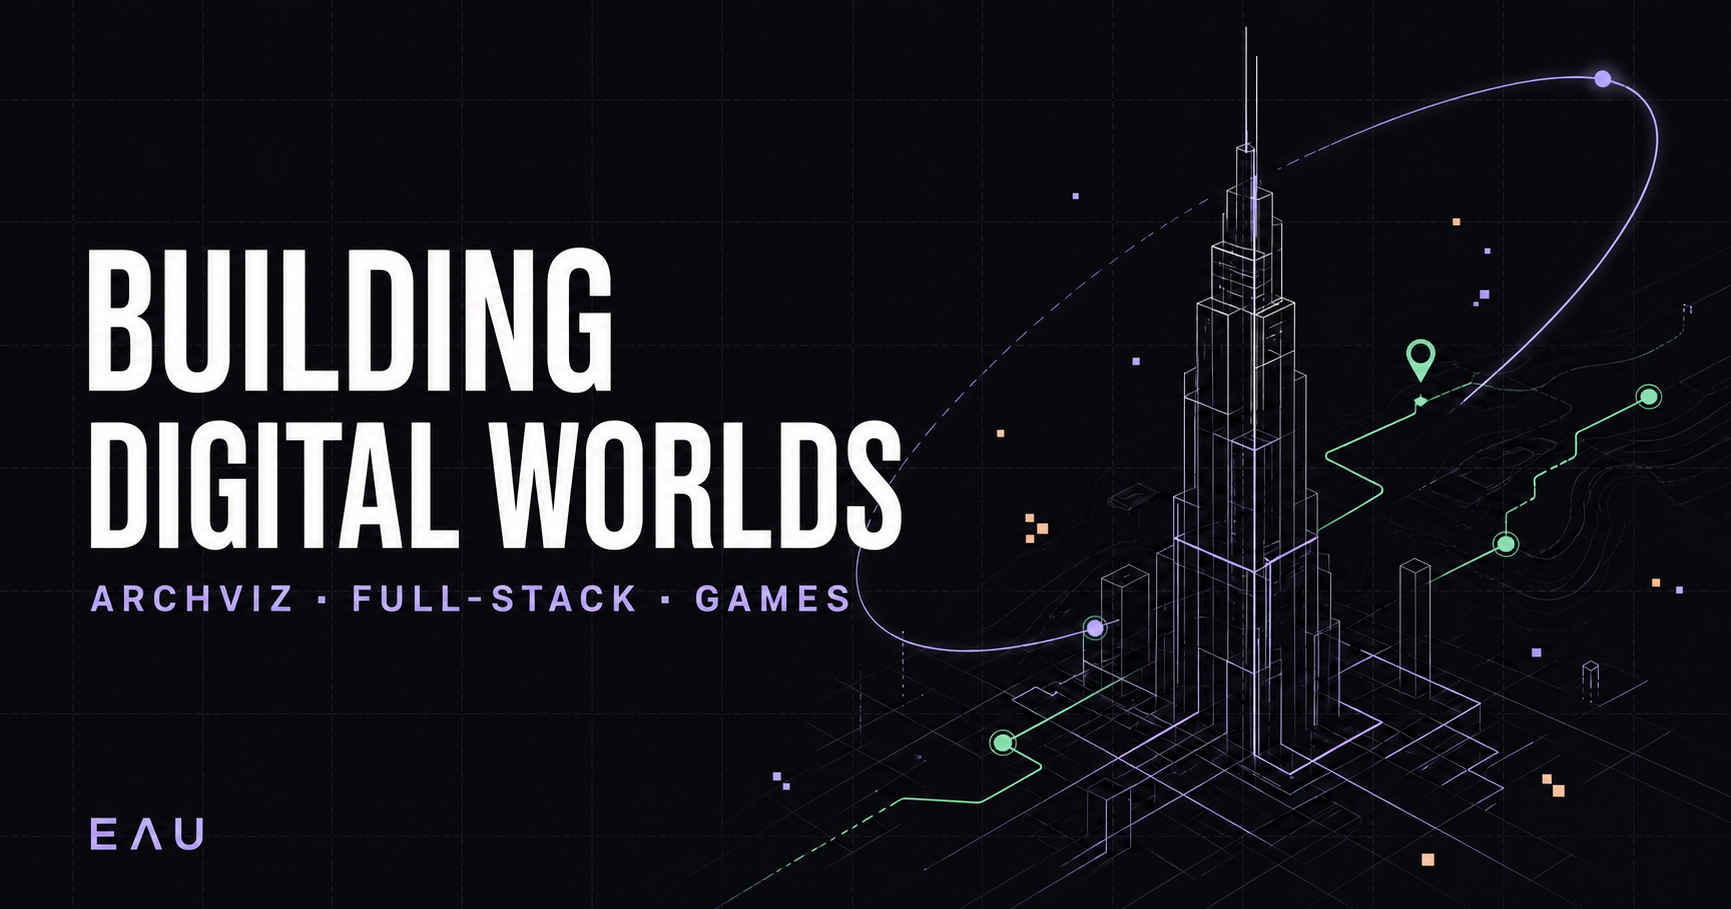
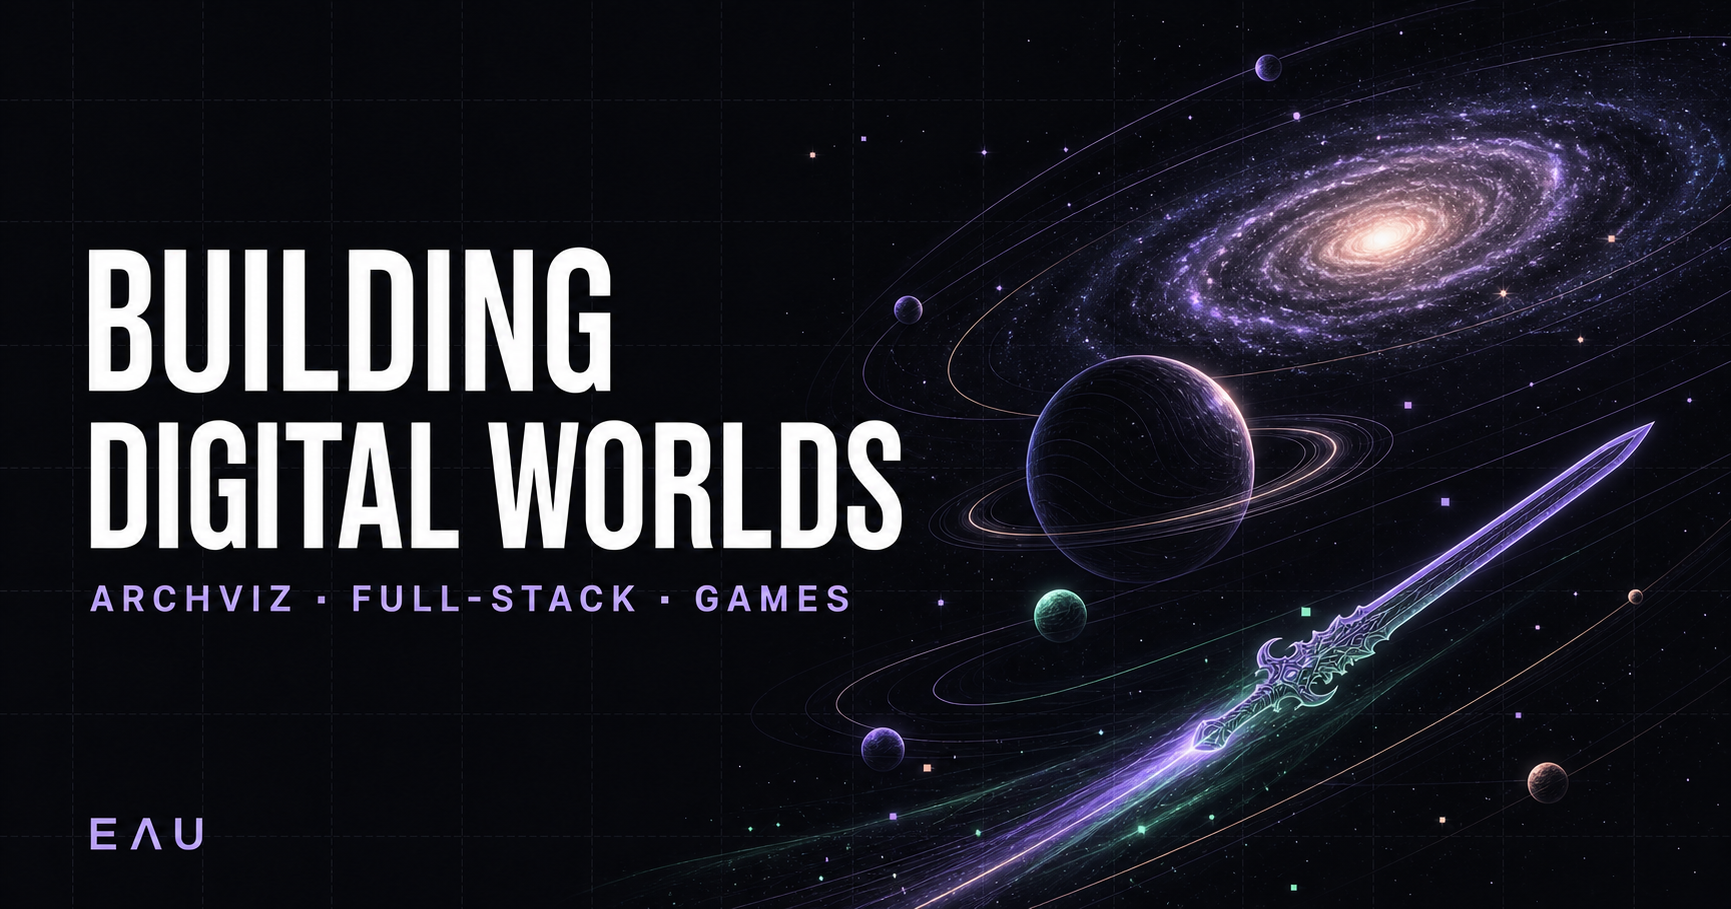
fix: replace identity buildings with EAU cosmos

diff --git a/app/globals.css b/app/globals.css
@@ -135,16 +135,87 @@ nav a:hover, .header-cta:hover { color: var(--ink); }
   border: 1px solid var(--line);
   border-radius: 28px;
   background:
-    linear-gradient(rgba(255,255,255,.025) 1px, transparent 1px),
-    linear-gradient(90deg,rgba(255,255,255,.025) 1px,transparent 1px),
-    radial-gradient(circle at 55% 44%, rgba(182,156,255,.18), transparent 42%),
-    #0c0e13;
-  background-size: 44px 44px, 44px 44px, auto, auto;
+    radial-gradient(ellipse at 62% 48%, rgba(182,156,255,.16), transparent 42%),
+    radial-gradient(circle at 18% 82%, rgba(142,227,192,.08), transparent 24%),
+    #070910;
   box-shadow: inset 0 0 90px rgba(0,0,0,.45);
 }
-.hero-visual::before { content: ""; position: absolute; inset: -40% -15%; border: 1px solid rgba(182,156,255,.12); border-radius: 50%; transform: rotate(-18deg); z-index: 1; pointer-events: none; }
-.hero-visual::after { content: ""; position: absolute; inset: 12% 9%; border: 1px solid rgba(142,227,192,.08); border-radius: 50%; transform: rotate(24deg); z-index: 1; pointer-events: none; }
+.hero-visual::before { content: ""; position: absolute; inset: 0; z-index: 4; pointer-events: none; box-shadow: inset 0 0 80px 24px rgba(5,6,12,.72); }
+.hero-visual::after { content: ""; position: absolute; inset: 0; z-index: 4; pointer-events: none; background: linear-gradient(135deg,rgba(255,255,255,.035),transparent 24%,transparent 74%,rgba(142,227,192,.025)); }
 .hero-visual-label { position: absolute; z-index: 5; top: 24px; left: 26px; right: 26px; display: flex; justify-content: space-between; color: rgba(255,255,255,.46); font: 500 9px/1 var(--font-geist-mono),monospace; letter-spacing: .14em; }
+
+.eau-cosmos { position: relative; width: 100%; height: 100%; overflow: hidden; isolation: isolate; background: radial-gradient(ellipse at 53% 50%,rgba(182,156,255,.1),transparent 45%); }
+.cosmos-nebula { position: absolute; z-index: 0; border-radius: 50%; filter: blur(30px); opacity: .68; }
+.cosmos-nebula-violet { width: 78%; height: 34%; left: 8%; top: 33%; background: linear-gradient(90deg,transparent,rgba(115,81,205,.26),rgba(255,255,255,.08),rgba(182,156,255,.25),transparent); transform: rotate(-17deg); animation: nebula-breathe 7s ease-in-out infinite alternate; }
+.cosmos-nebula-jade { width: 38%; height: 23%; right: -3%; bottom: 8%; background: radial-gradient(ellipse,rgba(72,198,157,.18),transparent 68%); animation: nebula-breathe 9s 1s ease-in-out infinite alternate-reverse; }
+.cosmos-starfield { position: absolute; inset: -12%; z-index: 1; background-repeat: repeat; transform-origin: 52% 48%; }
+.cosmos-stars-far {
+  opacity: .56;
+  background-image:
+    radial-gradient(circle at 7% 12%,rgba(255,255,255,.8) 0 1px,transparent 1.6px),
+    radial-gradient(circle at 19% 66%,rgba(182,156,255,.9) 0 1px,transparent 1.8px),
+    radial-gradient(circle at 31% 24%,rgba(255,255,255,.72) 0 1px,transparent 1.7px),
+    radial-gradient(circle at 43% 81%,rgba(142,227,192,.85) 0 1px,transparent 1.8px),
+    radial-gradient(circle at 58% 14%,rgba(255,255,255,.78) 0 1px,transparent 1.6px),
+    radial-gradient(circle at 72% 72%,rgba(182,156,255,.92) 0 1px,transparent 1.9px),
+    radial-gradient(circle at 86% 36%,rgba(255,184,147,.86) 0 1px,transparent 1.7px),
+    radial-gradient(circle at 94% 88%,rgba(255,255,255,.72) 0 1px,transparent 1.8px);
+  background-size: 173px 151px,211px 197px,233px 181px,257px 221px,283px 239px,307px 263px,331px 293px,359px 317px;
+  animation: star-drift 38s linear infinite;
+}
+.cosmos-stars-near {
+  opacity: .78;
+  background-image:
+    radial-gradient(circle at 11% 28%,#fff 0 1.4px,transparent 2px),
+    radial-gradient(circle at 37% 7%,#b69cff 0 1.5px,transparent 2.4px),
+    radial-gradient(circle at 54% 74%,#8ee3c0 0 1.4px,transparent 2.2px),
+    radial-gradient(circle at 79% 19%,#fff 0 1.3px,transparent 2px),
+    radial-gradient(circle at 91% 57%,#ffb893 0 1.4px,transparent 2.2px);
+  background-size: 367px 281px,419px 337px,461px 389px,503px 431px,557px 479px;
+  animation: star-drift 54s linear infinite reverse;
+}
+.galaxy-disc { position: absolute; z-index: 2; width: 78%; aspect-ratio: 1.95; left: 7%; top: 29%; border-radius: 50%; transform: rotate(-18deg); background: radial-gradient(ellipse at center,rgba(255,255,255,.9) 0 1%,rgba(255,222,198,.55) 2%,rgba(182,156,255,.3) 6%,rgba(92,65,167,.18) 18%,transparent 54%); filter: drop-shadow(0 0 22px rgba(182,156,255,.18)); animation: galaxy-float 9s ease-in-out infinite alternate; }
+.galaxy-core { position: absolute; width: 10%; aspect-ratio: 1; left: 45%; top: 40%; border-radius: 50%; background: radial-gradient(circle,#fff 0 5%,#ffddc9 16%,rgba(182,156,255,.62) 35%,transparent 72%); box-shadow: 0 0 32px rgba(255,255,255,.36),0 0 78px rgba(182,156,255,.3); }
+.galaxy-arm { position: absolute; left: 9%; top: 16%; width: 82%; height: 68%; border: 1px solid rgba(182,156,255,.3); border-left-color: transparent; border-right-color: transparent; border-radius: 50%; }
+.galaxy-arm::before { content: ""; position: absolute; inset: 12%; border-radius: 50%; border-top: 1px dashed rgba(255,255,255,.2); border-bottom: 1px dashed rgba(142,227,192,.2); }
+.galaxy-arm-one { transform: rotate(5deg); }
+.galaxy-arm-two { transform: rotate(57deg) scale(.8); opacity: .66; }
+.galaxy-arm-three { transform: rotate(112deg) scale(.6); opacity: .42; }
+.cosmos-orbit { position: absolute; z-index: 3; border: 1px solid rgba(255,255,255,.15); border-left-color: rgba(182,156,255,.5); border-radius: 50%; }
+.cosmos-orbit-outer { width: 92%; height: 55%; left: 3%; top: 23%; transform: rotate(-24deg); animation: orbit-outer 26s linear infinite; }
+.cosmos-orbit-inner { width: 58%; height: 35%; left: 19%; top: 35%; transform: rotate(14deg); animation: orbit-inner 18s linear infinite reverse; }
+.orbit-world { position: absolute; top: 7%; left: 23%; width: 12px; aspect-ratio: 1; border-radius: 50%; box-shadow: 0 0 18px currentColor; }
+.orbit-world-jade { color: var(--jade); background: var(--jade); }
+.orbit-world-peach { top: auto; bottom: 2%; left: auto; right: 18%; color: var(--peach); background: var(--peach); width: 9px; }
+.cosmos-planet { position: absolute; z-index: 3; right: 4%; bottom: 3%; width: 32%; aspect-ratio: 1; border: 1px solid rgba(182,156,255,.55); border-radius: 50%; background: radial-gradient(circle at 32% 27%,rgba(255,255,255,.2),transparent 6%),radial-gradient(circle at 37% 35%,rgba(182,156,255,.25),rgba(20,18,42,.78) 48%,#090b12 76%); box-shadow: inset -28px -20px 46px rgba(0,0,0,.62),0 0 38px rgba(182,156,255,.2); }
+.cosmos-planet::before { content: ""; position: absolute; width: 158%; height: 36%; left: -29%; top: 31%; border: 1px solid rgba(142,227,192,.38); border-left-color: transparent; border-right-color: transparent; border-radius: 50%; transform: rotate(-18deg); box-shadow: 0 0 13px rgba(142,227,192,.08); }
+.cosmos-planet::after { content: ""; position: absolute; inset: 7%; border: 1px solid rgba(255,255,255,.09); border-radius: 50%; box-shadow: inset 0 0 18px rgba(182,156,255,.12); }
+.planet-latitude { position: absolute; left: 12%; right: 12%; height: 24%; border-top: 1px solid rgba(182,156,255,.18); border-bottom: 1px solid rgba(182,156,255,.18); border-radius: 50%; }
+.planet-latitude-one { top: 26%; }
+.planet-latitude-two { bottom: 20%; transform: scaleX(.88); }
+.planet-meridian { position: absolute; top: 8%; bottom: 8%; left: 37%; width: 28%; border-left: 1px solid rgba(182,156,255,.18); border-right: 1px solid rgba(182,156,255,.18); border-radius: 50%; }
+.cosmos-sword-flight { position: absolute; z-index: 8; left: 8%; top: 73%; width: 116px; height: 34px; filter: drop-shadow(0 0 9px rgba(182,156,255,.9)); animation: sword-crossing 7.5s ease-in-out infinite; }
+.cosmos-sword-blade { position: absolute; left: 34px; top: 12px; width: 76px; height: 9px; clip-path: polygon(0 32%,85% 0,100% 50%,85% 100%,0 68%); background: linear-gradient(180deg,#fff,var(--violet) 55%,#5f45a8); box-shadow: 0 0 14px var(--violet); }
+.cosmos-sword-blade::after { content: ""; position: absolute; left: 13%; right: 15%; top: 46%; height: 1px; background: rgba(255,255,255,.8); }
+.cosmos-sword-guard { position: absolute; left: 29px; top: 7px; width: 7px; height: 20px; border: 2px solid var(--peach); transform: rotate(12deg); }
+.cosmos-sword-handle { position: absolute; left: 10px; top: 14px; width: 22px; height: 6px; border-radius: 4px 0 0 4px; background: var(--jade); box-shadow: 0 0 10px rgba(142,227,192,.7); }
+.cosmos-sword-trail { position: absolute; right: 80%; top: 15px; width: 92px; height: 3px; background: linear-gradient(90deg,transparent,rgba(142,227,192,.15),var(--jade)); filter: blur(.4px); }
+.cosmos-coordinate { position: absolute; z-index: 6; color: rgba(255,255,255,.4); font: 500 8px/1 var(--font-geist-mono),monospace; letter-spacing: .14em; }
+.cosmos-coordinate-top { left: 26px; top: 68px; }
+.cosmos-coordinate-bottom { left: 26px; bottom: 23px; }
+
+@keyframes nebula-breathe { to { opacity: .95; transform: rotate(-13deg) scale(1.08); } }
+@keyframes star-drift { to { transform: rotate(360deg); } }
+@keyframes galaxy-float { to { transform: rotate(-14deg) translateY(-10px) scale(1.03); } }
+@keyframes orbit-outer { to { transform: rotate(336deg); } }
+@keyframes orbit-inner { to { transform: rotate(374deg); } }
+@keyframes sword-crossing {
+  0% { left: 5%; top: 78%; transform: rotate(-18deg) scale(.78); opacity: .45; }
+  18% { opacity: 1; }
+  48% { left: 48%; top: 48%; transform: rotate(-24deg) scale(1.08); opacity: 1; }
+  82% { opacity: 1; }
+  100% { left: 84%; top: 15%; transform: rotate(-18deg) scale(.72); opacity: .35; }
+}
 
 .proof-strip { position: absolute; left: 0; right: 0; bottom: 0; display: grid; grid-template-columns: repeat(4,1fr); border-top: 1px solid var(--line); }
 .proof-strip div { padding: 25px 18px 24px 0; border-right: 1px solid var(--line); }
@@ -252,18 +323,19 @@ nav a:hover, .header-cta:hover { color: var(--ink); }
 footer { width: min(calc(100% - 48px),var(--max)); margin: 0 auto; padding: 30px 0 36px; display: flex; justify-content: space-between; border-top: 1px solid var(--line); color: var(--muted-2); font-size: 10px; text-transform: uppercase; letter-spacing: .1em; }
 
 .cursor-system { display: block; pointer-events: none; }
-.cursor-core,.cursor-sword { position: fixed; top: 0; left: 0; z-index: 100; pointer-events: none; opacity: 0; }
+.cursor-core,.cursor-sword { position: fixed; top: 0; left: 0; z-index: 1000; pointer-events: none; opacity: 0; }
 .cursor-core { width: 10px; height: 10px; margin: -5px 0 0 -5px; border: 1px solid var(--jade); border-radius: 50%; box-shadow: 0 0 12px var(--jade); }
-.cursor-sword { width: 42px; height: 4px; transform-origin: right center; background: linear-gradient(90deg,transparent,var(--violet) 34%,var(--ink)); box-shadow: 0 0 9px rgba(182,156,255,.7); }
-.cursor-sword::after { content: ""; position: absolute; right: -7px; top: -4px; width: 8px; height: 12px; border-left: 2px solid var(--peach); border-right: 2px solid var(--peach); }
-.cursor-sword i { position: absolute; left: -30px; top: 1px; width: 30px; border-top: 1px solid rgba(182,156,255,.38); }
+.cursor-sword { width: 72px; height: 10px; transform-origin: right center; border-radius: 55% 100% 100% 55%; background: linear-gradient(180deg,#fff,var(--violet) 52%,#5e45a1); box-shadow: 0 0 12px rgba(182,156,255,.9); }
+.cursor-sword::before { content: ""; position: absolute; left: -7px; top: -5px; width: 6px; height: 20px; border: 2px solid var(--peach); }
+.cursor-sword::after { content: ""; position: absolute; left: -29px; top: 2px; width: 24px; height: 6px; border-radius: 4px 0 0 4px; background: var(--jade); box-shadow: 0 0 10px rgba(142,227,192,.7); }
+.cursor-sword i { position: absolute; right: 100%; top: 4px; width: 74px; height: 2px; background: linear-gradient(90deg,transparent,rgba(142,227,192,.1),var(--jade)); }
 
 .card-page { min-height: 100svh; padding: 40px; display: grid; place-items: center; position: relative; }
 .digital-card { width: min(1280px,100%); min-height: 660px; display: grid; grid-template-columns: .9fr 1.1fr; border: 1px solid var(--line); border-radius: 30px; overflow: hidden; background: #0c0e13; box-shadow: 0 30px 100px rgba(0,0,0,.45); }
 .digital-card-copy { padding: 44px 48px; display: flex; flex-direction: column; justify-content: space-between; position: relative; z-index: 3; }
 .digital-card h1 { font-size: clamp(70px,8vw,118px); margin: 30px 0 24px; }
 .digital-card-copy > div > p:last-child { max-width: 560px; color: var(--muted); line-height: 1.6; }
-.digital-card-visual { min-height: 660px; position: relative; border-left: 1px solid var(--line); background: radial-gradient(circle at 50% 50%,rgba(182,156,255,.18),transparent 45%); }
+.digital-card-visual { min-height: 660px; position: relative; border-left: 1px solid var(--line); background: #070910; }
 .card-actions { display: flex; flex-wrap: wrap; gap: 10px; }
 .card-actions a,.card-actions button { padding: 12px 15px; border: 1px solid var(--line); border-radius: 999px; background: transparent; color: var(--ink); text-decoration: none; cursor: pointer; font-size: 12px; }
 .card-actions a:hover,.card-actions button:hover { border-color: var(--violet); color: var(--violet); }
@@ -295,6 +367,12 @@ footer { width: min(calc(100% - 48px),var(--max)); margin: 0 auto; padding: 30px
   .hero-intro { font-size: 16px; margin-top: 34px; }
   .hero-visual { height: 430px; border-radius: 20px; }
   .hero-visual-label span:last-child { display: none; }
+  .cosmos-coordinate-top { top: 56px; }
+  .cosmos-coordinate-bottom { left: 18px; bottom: 17px; font-size: 7px; }
+  .cosmos-planet { width: 38%; right: 0; bottom: 5%; }
+  .galaxy-disc { width: 92%; left: -2%; top: 31%; }
+  .cosmos-sword-flight { width: 92px; transform-origin: center; }
+  .cosmos-sword-blade { width: 60px; }
   .proof-strip { grid-template-columns: repeat(2,1fr); }
   .proof-strip div:nth-child(2) { border-right: 0; }
   .proof-strip div:nth-child(-n+2) { border-bottom: 1px solid var(--line); }

diff --git a/app/components/BabylonLineScene.tsx b/app/components/BabylonLineScene.tsx
@@ -2,7 +2,7 @@
 
 import { useEffect, useRef, useState } from "react";
 
-type SceneMode = "hero" | "gamuda" | "platform";
+type SceneMode = "gamuda" | "platform";
 
 interface BabylonLineSceneProps {
   mode: SceneMode;
@@ -18,9 +18,7 @@ export function BabylonLineScene({ mode }: BabylonLineSceneProps) {
   const [status, setStatus] = useState(
     mode === "gamuda"
       ? "Drag to orbit · Select a floor"
-      : mode === "platform"
-        ? "Explore the connected property map"
-        : "EAU // orbital city online",
+      : "Explore the connected property map",
   );
 
   useEffect(() => {
@@ -52,16 +50,16 @@ export function BabylonLineScene({ mode }: BabylonLineSceneProps) {
       const camera = new B.ArcRotateCamera(
         `camera-${mode}`,
         mode === "platform" ? -Math.PI / 2.35 : -Math.PI / 2.55,
-        mode === "hero" ? 1.13 : 1.05,
-        mode === "hero" ? 18 : 16,
-        new B.Vector3(0, mode === "hero" ? 2.4 : 1.7, 0),
+        1.05,
+        16,
+        new B.Vector3(0, 1.7, 0),
         scene,
       );
-      camera.lowerRadiusLimit = mode === "hero" ? 15 : 10;
-      camera.upperRadiusLimit = mode === "hero" ? 22 : 23;
+      camera.lowerRadiusLimit = 10;
+      camera.upperRadiusLimit = 23;
       camera.wheelDeltaPercentage = 0.02;
       camera.panningSensibility = 0;
-      if (mode !== "hero") camera.attachControl(canvas, true);
+      camera.attachControl(canvas, true);
 
       const violet = B.Color3.FromHexString("#b69cff");
       const jade = B.Color3.FromHexString("#8ee3c0");
@@ -150,20 +148,6 @@ export function BabylonLineScene({ mode }: BabylonLineSceneProps) {
           false,
           0.012,
         );
-      }
-
-      if (mode === "hero") {
-        createBuilding(-1.9, 0.2, 9, 2.4, 2.0, violetWire, "Aether Spire");
-        createBuilding(0.3, -0.5, 15, 2.1, 2.1, quietWire, "Sky Archive");
-        createBuilding(2.3, 0.8, 11, 1.8, 1.7, jadeWire, "Jade Relay");
-
-        for (let radius = 3.2; radius <= 7.2; radius += 2) {
-          const circle = Array.from({ length: 65 }, (_, index) => {
-            const angle = (index / 64) * Math.PI * 2;
-            return new B.Vector3(Math.cos(angle) * radius, 2.5 + radius * 0.12, Math.sin(angle) * radius);
-          });
-          makeRoute(`orbit-${radius}`, circle, radius < 4 ? jade : violet, true, 0.055);
-        }
       }
 
       if (mode === "gamuda") {
@@ -275,8 +259,7 @@ export function BabylonLineScene({ mode }: BabylonLineSceneProps) {
 
       scene.onBeforeRenderObservable.add(() => {
         if (!reducedMotion) {
-          lineMaterials.forEach((material) => { material.dashOffset -= mode === "hero" ? 0.0014 : 0.003; });
-          if (mode === "hero") root.rotation.y += 0.0012;
+          lineMaterials.forEach((material) => { material.dashOffset -= 0.003; });
           if (mode === "platform") root.rotation.y += 0.00035;
         }
       });
@@ -304,7 +287,7 @@ export function BabylonLineScene({ mode }: BabylonLineSceneProps) {
 
   return (
     <div className={`babylon-stage babylon-${mode}`}>
-      <canvas ref={canvasRef} aria-label={mode === "hero" ? "Animated EAU wireframe city" : `${mode} interactive line-art preview`} />
+      <canvas ref={canvasRef} aria-label={`${mode} interactive line-art preview`} />
       <div className="scene-status" aria-live="polite">{status}</div>
       {mode === "platform" ? (
         <button className="scene-action" type="button" onClick={() => actionRef.current()}>

diff --git a/app/components/EAUCosmos.tsx b/app/components/EAUCosmos.tsx
@@ -1,0 +1,52 @@
+interface EAUCosmosProps {
+  variant?: "hero" | "card";
+}
+
+export function EAUCosmos({ variant = "hero" }: EAUCosmosProps) {
+  return (
+    <div
+      className={`eau-cosmos eau-cosmos-${variant}`}
+      role="img"
+      aria-label="Animated Eternal Amaris Universe galaxy with orbiting planets and a flying cultivation sword"
+    >
+      <div className="cosmos-nebula cosmos-nebula-violet" aria-hidden="true" />
+      <div className="cosmos-nebula cosmos-nebula-jade" aria-hidden="true" />
+      <div className="cosmos-starfield cosmos-stars-far" aria-hidden="true" />
+      <div className="cosmos-starfield cosmos-stars-near" aria-hidden="true" />
+
+      <div className="galaxy-disc" aria-hidden="true">
+        <span className="galaxy-core" />
+        <span className="galaxy-arm galaxy-arm-one" />
+        <span className="galaxy-arm galaxy-arm-two" />
+        <span className="galaxy-arm galaxy-arm-three" />
+      </div>
+
+      <div className="cosmos-orbit cosmos-orbit-outer" aria-hidden="true">
+        <span className="orbit-world orbit-world-jade" />
+      </div>
+      <div className="cosmos-orbit cosmos-orbit-inner" aria-hidden="true">
+        <span className="orbit-world orbit-world-peach" />
+      </div>
+
+      <div className="cosmos-planet" aria-hidden="true">
+        <span className="planet-latitude planet-latitude-one" />
+        <span className="planet-latitude planet-latitude-two" />
+        <span className="planet-meridian" />
+      </div>
+
+      <div className="cosmos-sword-flight" aria-hidden="true">
+        <span className="cosmos-sword-trail" />
+        <span className="cosmos-sword-blade" />
+        <span className="cosmos-sword-guard" />
+        <span className="cosmos-sword-handle" />
+      </div>
+
+      <div className="cosmos-coordinate cosmos-coordinate-top" aria-hidden="true">
+        MILKY WAY // EAU SECTOR 001
+      </div>
+      <div className="cosmos-coordinate cosmos-coordinate-bottom" aria-hidden="true">
+        神 · 魔 · 妖 · 人 // ORGANIC + MACHINE
+      </div>
+    </div>
+  );
+}

diff --git a/app/components/EAUMotion.tsx b/app/components/EAUMotion.tsx
@@ -51,7 +51,12 @@ export function EAUMotion() {
           return undefined;
         }
 
+        let hasMoved = false;
         const move = (event: PointerEvent) => {
+          if (!hasMoved) {
+            hasMoved = true;
+            gsap.to([core, sword], { opacity: 1, duration: 0.18 });
+          }
           gsap.to(core, {
             x: event.clientX,
             y: event.clientY,
@@ -59,17 +64,19 @@ export function EAUMotion() {
             overwrite: "auto",
           });
           gsap.to(sword, {
-            x: event.clientX - 42,
-            y: event.clientY + 24,
-            rotation: -28 + Math.min(14, event.movementX * 0.7),
-            duration: 0.42,
+            x: event.clientX - 74,
+            y: event.clientY + 30,
+            rotation: -24 + Math.min(12, event.movementX * 0.55),
+            duration: 0.34,
             ease: "power3.out",
             overwrite: "auto",
           });
         };
 
         const hide = () => gsap.to([core, sword], { opacity: 0, duration: 0.18 });
-        const show = () => gsap.to([core, sword], { opacity: 1, duration: 0.18 });
+        const show = () => {
+          if (hasMoved) gsap.to([core, sword], { opacity: 1, duration: 0.18 });
+        };
 
         window.addEventListener("pointermove", move);
         document.addEventListener("pointerleave", hide);

diff --git a/app/page.tsx b/app/page.tsx
@@ -1,4 +1,5 @@
 import { BabylonLineScene } from "./components/BabylonLineScene";
+import { EAUCosmos } from "./components/EAUCosmos";
 import { EAUMotion } from "./components/EAUMotion";
 import { GameMicroDemo } from "./components/GameMicroDemo";
 import { LiveProductFrame } from "./components/LiveProductFrame";
@@ -91,7 +92,7 @@ export default function Home() {
         </div>
         <div className="hero-visual">
           <div className="hero-visual-label"><span>EAU // 001</span><span>FULL-STACK · ARCHVIZ · GAMES</span></div>
-          <BabylonLineScene mode="hero" />
+          <EAUCosmos />
         </div>
         <div className="proof-strip" aria-label="Selected career highlights">
           <div><strong>84%</strong><span>production 3D model reduction</span></div>

diff --git a/app/components/CardClient.tsx b/app/components/CardClient.tsx
@@ -2,7 +2,7 @@
 
 import { useState } from "react";
 import Link from "next/link";
-import { BabylonLineScene } from "./BabylonLineScene";
+import { EAUCosmos } from "./EAUCosmos";
 
 export function CardClient() {
   const [copied, setCopied] = useState(false);
@@ -43,7 +43,7 @@ export function CardClient() {
             <button type="button" onClick={share}>{copied ? "Link copied" : "Share card"}</button>
           </div>
         </div>
-        <div className="digital-card-visual"><BabylonLineScene mode="hero" /></div>
+        <div className="digital-card-visual"><EAUCosmos variant="card" /></div>
       </div>
       <Link className="card-back-link" href="/">View full portfolio ↓</Link>
     </main>

diff --git a/README.md b/README.md
@@ -8,8 +8,10 @@ The site presents Kevin's work across three connected lanes:
 - interactive 3D systems for GoProp Pro, Web and Platform;
 - released and in-development games under Spicy MSG Studio.
 
-V2 adds an animated EAU visual system, interactive line-art product previews,
-click-to-load live products, game micro-demos and a shareable digital card.
+V2 adds a galaxy-and-planets EAU identity system with a flying cultivation sword,
+interactive line-art product previews, click-to-load live products, game micro-demos
+and a shareable digital card. Buildings stay inside the archviz case studies rather
+than the personal identity surfaces.
 
 ## Public project boundaries
 
